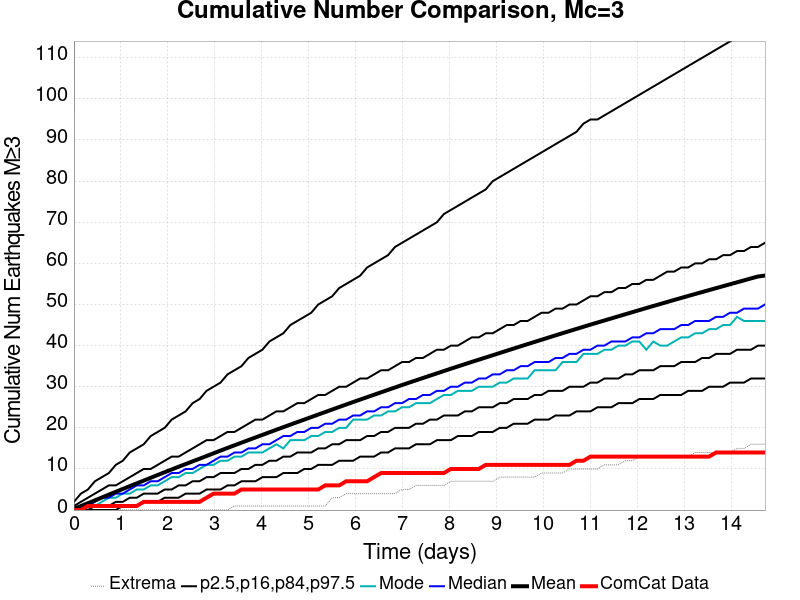
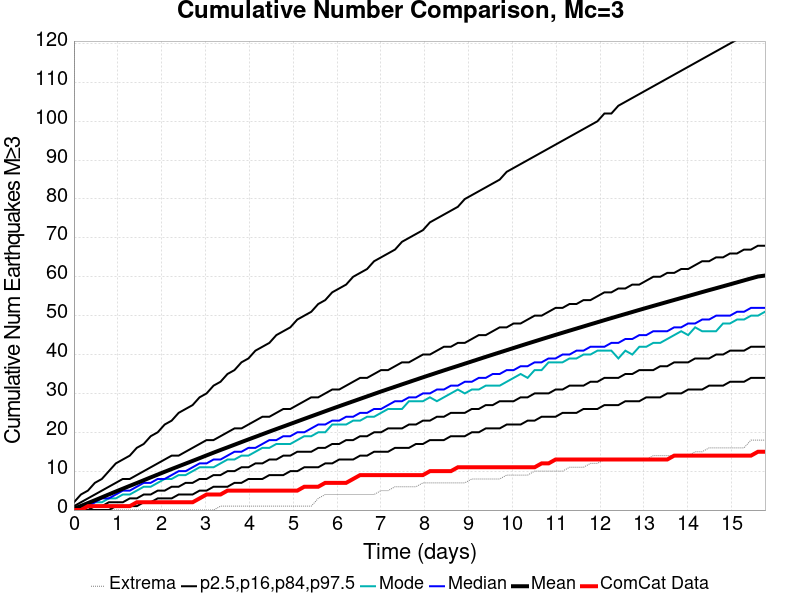
automatic plot and index update from opensha.usc.edu

diff --git a/2019_07_27-ComCatM7p1_ci38457511_21DaysAfter_ShakeMapSurfaces-noSpont-full_td-scale1.14/index.html b/2019_07_27-ComCatM7p1_ci38457511_21DaysAfter_ShakeMapSurfaces-noSpont-full_td-scale1.14/index.html
@@ -761,15 +761,15 @@ img {
 <p><em><a href="#table-of-contents">(top)</a></em></p>
 <table>
 <thead>
-<tr><th></th><th>1 Day</th><th>1 Week</th><th>14.7 Day</th></tr>
+<tr><th></th><th>1 Day</th><th>1 Week</th><th>15.8 Day</th></tr>
 </thead>
 <tbody>
-<tr><td><strong>M≥3</strong></td><td><img src="plots/comcat_compare_mean_1d_m3.png" alt="Map" /></td><td><img src="plots/comcat_compare_mean_1wk_m3.png" alt="Map" /></td><td><img src="plots/comcat_compare_mean_14.7d_m3.png" alt="Map" /></td></tr>
-<tr><td><strong>M≥4</strong></td><td><img src="plots/comcat_compare_mean_1d_m4.png" alt="Map" /></td><td><img src="plots/comcat_compare_mean_1wk_m4.png" alt="Map" /></td><td><img src="plots/comcat_compare_mean_14.7d_m4.png" alt="Map" /></td></tr>
-<tr><td><strong>M≥5</strong></td><td><img src="plots/comcat_compare_mean_1d_m5.png" alt="Map" /></td><td><img src="plots/comcat_compare_mean_1wk_m5.png" alt="Map" /></td><td><img src="plots/comcat_compare_mean_14.7d_m5.png" alt="Map" /></td></tr>
-<tr><td><strong>M≥6</strong></td><td><img src="plots/comcat_compare_mean_1d_m6.png" alt="Map" /></td><td><img src="plots/comcat_compare_mean_1wk_m6.png" alt="Map" /></td><td><img src="plots/comcat_compare_mean_14.7d_m6.png" alt="Map" /></td></tr>
-<tr><td><strong>M≥7</strong></td><td><img src="plots/comcat_compare_mean_1d_m7.png" alt="Map" /></td><td><img src="plots/comcat_compare_mean_1wk_m7.png" alt="Map" /></td><td><img src="plots/comcat_compare_mean_14.7d_m7.png" alt="Map" /></td></tr>
-<tr><td><strong>M≥8</strong></td><td><img src="plots/comcat_compare_mean_1d_m8.png" alt="Map" /></td><td><img src="plots/comcat_compare_mean_1wk_m8.png" alt="Map" /></td><td><img src="plots/comcat_compare_mean_14.7d_m8.png" alt="Map" /></td></tr>
+<tr><td><strong>M≥3</strong></td><td><img src="plots/comcat_compare_mean_1d_m3.png" alt="Map" /></td><td><img src="plots/comcat_compare_mean_1wk_m3.png" alt="Map" /></td><td><img src="plots/comcat_compare_mean_15.8d_m3.png" alt="Map" /></td></tr>
+<tr><td><strong>M≥4</strong></td><td><img src="plots/comcat_compare_mean_1d_m4.png" alt="Map" /></td><td><img src="plots/comcat_compare_mean_1wk_m4.png" alt="Map" /></td><td><img src="plots/comcat_compare_mean_15.8d_m4.png" alt="Map" /></td></tr>
+<tr><td><strong>M≥5</strong></td><td><img src="plots/comcat_compare_mean_1d_m5.png" alt="Map" /></td><td><img src="plots/comcat_compare_mean_1wk_m5.png" alt="Map" /></td><td><img src="plots/comcat_compare_mean_15.8d_m5.png" alt="Map" /></td></tr>
+<tr><td><strong>M≥6</strong></td><td><img src="plots/comcat_compare_mean_1d_m6.png" alt="Map" /></td><td><img src="plots/comcat_compare_mean_1wk_m6.png" alt="Map" /></td><td><img src="plots/comcat_compare_mean_15.8d_m6.png" alt="Map" /></td></tr>
+<tr><td><strong>M≥7</strong></td><td><img src="plots/comcat_compare_mean_1d_m7.png" alt="Map" /></td><td><img src="plots/comcat_compare_mean_1wk_m7.png" alt="Map" /></td><td><img src="plots/comcat_compare_mean_15.8d_m7.png" alt="Map" /></td></tr>
+<tr><td><strong>M≥8</strong></td><td><img src="plots/comcat_compare_mean_1d_m8.png" alt="Map" /></td><td><img src="plots/comcat_compare_mean_1wk_m8.png" alt="Map" /></td><td><img src="plots/comcat_compare_mean_15.8d_m8.png" alt="Map" /></td></tr>
 </tbody>
 </table>
 <h3 id="comcat-depth-distribution">ComCat Depth Distribution</h3>

diff --git a/index.html b/index.html
@@ -27,7 +27,7 @@ img {
 <tbody>
 <tr><td>2019/08/09</td><td><a href="2019_08_09-ComCatM7p1_ci38457511_ShakeMapSurfaces_NoERT-noSpont-no_ert/index.html">ComCat M7.1 (ci38457511), ShakeMap Surfaces, NoERT</a></td><td>2019/07/05</td><td>100000</td><td>Done</td><td>2019/08/09</td></tr>
 <tr><td>2019/08/03</td><td><a href="2019_08_03-ComCatM7p1_ci38457511_28DaysAfter_ShakeMapSurfaces-noSpont-full_td-scale1.14/index.html">ComCat M7.1 (ci38457511), 28 Days After, ShakeMap Surfaces</a></td><td>2019/08/02</td><td>100000</td><td>Done</td><td>2019/08/11</td></tr>
-<tr><td>2019/07/27</td><td><a href="2019_07_27-ComCatM7p1_ci38457511_21DaysAfter_ShakeMapSurfaces-noSpont-full_td-scale1.14/index.html">ComCat M7.1 (ci38457511), 21 Days After, ShakeMap Surfaces</a></td><td>2019/07/26</td><td>100000</td><td>Done</td><td>2019/08/10</td></tr>
+<tr><td>2019/07/27</td><td><a href="2019_07_27-ComCatM7p1_ci38457511_21DaysAfter_ShakeMapSurfaces-noSpont-full_td-scale1.14/index.html">ComCat M7.1 (ci38457511), 21 Days After, ShakeMap Surfaces</a></td><td>2019/07/26</td><td>100000</td><td>Done</td><td>2019/08/11</td></tr>
 <tr><td>2019/07/25</td><td><a href="2019_07_25-ComCatM7p1_ci38457511_19p6DaysAfter_ShakeMapSurfaces-noSpont-full_td-scale1.14/index.html">ComCat M7.1 (ci38457511), 19.6 Days After, ShakeMap Surfaces</a></td><td>2019/07/25</td><td>100000</td><td>Done</td><td>2019/08/11</td></tr>
 <tr><td>2019/07/18</td><td><a href="2019_07_18-ComCatM7p1_ci38457511_InvertedSurface_ShakeMapSurface-noSpont-full_td-scale1.14/index.html">ComCat M7.1 (ci38457511), Inverted Surface, ShakeMap Surface</a></td><td>2019/07/05</td><td>100000</td><td>Done</td><td>2019/08/05</td></tr>
 <tr><td>2019/07/16</td><td><a href="2019_07_16-ComCatM7p1_ci38457511_11DaysAfter_ShakeMapSurfaces-noSpont-full_td-scale1.14/index.html">ComCat M7.1 (ci38457511), 11 Days After, ShakeMap Surfaces</a></td><td>2019/07/16</td><td>100000</td><td>Done</td><td>2019/08/10</td></tr>

diff --git a/2019_07_27-ComCatM7p1_ci38457511_21DaysAfter_ShakeMapSurfaces-noSpont-full_td-scale1.14/README.md b/2019_07_27-ComCatM7p1_ci38457511_21DaysAfter_ShakeMapSurfaces-noSpont-full_td-scale1.14/README.md
@@ -703,14 +703,14 @@ These plots compare simulated sequences with data from ComCat. All plots only co
 ### ComCat Mean Spatial Distribution
 *[(top)](#table-of-contents)*
 
-|  | 1 Day | 1 Week | 14.7 Day |
+|  | 1 Day | 1 Week | 15.8 Day |
 |-----|-----|-----|-----|
-| **M≥3** | ![Map](plots/comcat_compare_mean_1d_m3.png) | ![Map](plots/comcat_compare_mean_1wk_m3.png) | ![Map](plots/comcat_compare_mean_14.7d_m3.png) |
-| **M≥4** | ![Map](plots/comcat_compare_mean_1d_m4.png) | ![Map](plots/comcat_compare_mean_1wk_m4.png) | ![Map](plots/comcat_compare_mean_14.7d_m4.png) |
-| **M≥5** | ![Map](plots/comcat_compare_mean_1d_m5.png) | ![Map](plots/comcat_compare_mean_1wk_m5.png) | ![Map](plots/comcat_compare_mean_14.7d_m5.png) |
-| **M≥6** | ![Map](plots/comcat_compare_mean_1d_m6.png) | ![Map](plots/comcat_compare_mean_1wk_m6.png) | ![Map](plots/comcat_compare_mean_14.7d_m6.png) |
-| **M≥7** | ![Map](plots/comcat_compare_mean_1d_m7.png) | ![Map](plots/comcat_compare_mean_1wk_m7.png) | ![Map](plots/comcat_compare_mean_14.7d_m7.png) |
-| **M≥8** | ![Map](plots/comcat_compare_mean_1d_m8.png) | ![Map](plots/comcat_compare_mean_1wk_m8.png) | ![Map](plots/comcat_compare_mean_14.7d_m8.png) |
+| **M≥3** | ![Map](plots/comcat_compare_mean_1d_m3.png) | ![Map](plots/comcat_compare_mean_1wk_m3.png) | ![Map](plots/comcat_compare_mean_15.8d_m3.png) |
+| **M≥4** | ![Map](plots/comcat_compare_mean_1d_m4.png) | ![Map](plots/comcat_compare_mean_1wk_m4.png) | ![Map](plots/comcat_compare_mean_15.8d_m4.png) |
+| **M≥5** | ![Map](plots/comcat_compare_mean_1d_m5.png) | ![Map](plots/comcat_compare_mean_1wk_m5.png) | ![Map](plots/comcat_compare_mean_15.8d_m5.png) |
+| **M≥6** | ![Map](plots/comcat_compare_mean_1d_m6.png) | ![Map](plots/comcat_compare_mean_1wk_m6.png) | ![Map](plots/comcat_compare_mean_15.8d_m6.png) |
+| **M≥7** | ![Map](plots/comcat_compare_mean_1d_m7.png) | ![Map](plots/comcat_compare_mean_1wk_m7.png) | ![Map](plots/comcat_compare_mean_15.8d_m7.png) |
+| **M≥8** | ![Map](plots/comcat_compare_mean_1d_m8.png) | ![Map](plots/comcat_compare_mean_1wk_m8.png) | ![Map](plots/comcat_compare_mean_15.8d_m8.png) |
 
 ### ComCat Depth Distribution
 *[(top)](#table-of-contents)*

diff --git a/README.md b/README.md
@@ -4,7 +4,7 @@
 |-----|-----|-----|-----|-----|-----|
 | 2019/08/09 | [ComCat M7.1 (ci38457511), ShakeMap Surfaces, NoERT](2019_08_09-ComCatM7p1_ci38457511_ShakeMapSurfaces_NoERT-noSpont-no_ert/README.md) | 2019/07/05 | 100000 | Done | 2019/08/09 |
 | 2019/08/03 | [ComCat M7.1 (ci38457511), 28 Days After, ShakeMap Surfaces](2019_08_03-ComCatM7p1_ci38457511_28DaysAfter_ShakeMapSurfaces-noSpont-full_td-scale1.14/README.md) | 2019/08/02 | 100000 | Done | 2019/08/11 |
-| 2019/07/27 | [ComCat M7.1 (ci38457511), 21 Days After, ShakeMap Surfaces](2019_07_27-ComCatM7p1_ci38457511_21DaysAfter_ShakeMapSurfaces-noSpont-full_td-scale1.14/README.md) | 2019/07/26 | 100000 | Done | 2019/08/10 |
+| 2019/07/27 | [ComCat M7.1 (ci38457511), 21 Days After, ShakeMap Surfaces](2019_07_27-ComCatM7p1_ci38457511_21DaysAfter_ShakeMapSurfaces-noSpont-full_td-scale1.14/README.md) | 2019/07/26 | 100000 | Done | 2019/08/11 |
 | 2019/07/25 | [ComCat M7.1 (ci38457511), 19.6 Days After, ShakeMap Surfaces](2019_07_25-ComCatM7p1_ci38457511_19p6DaysAfter_ShakeMapSurfaces-noSpont-full_td-scale1.14/README.md) | 2019/07/25 | 100000 | Done | 2019/08/11 |
 | 2019/07/18 | [ComCat M7.1 (ci38457511), Inverted Surface, ShakeMap Surface](2019_07_18-ComCatM7p1_ci38457511_InvertedSurface_ShakeMapSurface-noSpont-full_td-scale1.14/README.md) | 2019/07/05 | 100000 | Done | 2019/08/05 |
 | 2019/07/16 | [ComCat M7.1 (ci38457511), 11 Days After, ShakeMap Surfaces](2019_07_16-ComCatM7p1_ci38457511_11DaysAfter_ShakeMapSurfaces-noSpont-full_td-scale1.14/README.md) | 2019/07/16 | 100000 | Done | 2019/08/10 |
